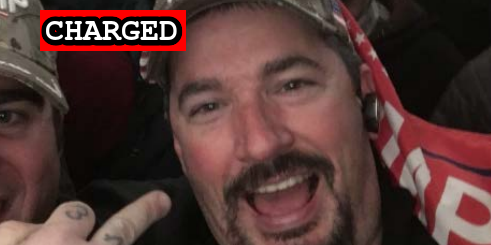
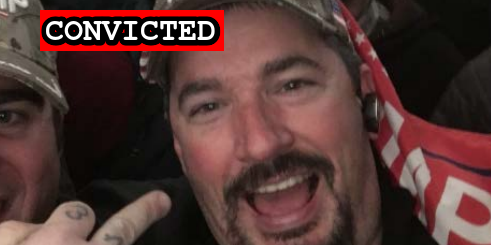
New guilty plea

Changed region(s): [[0.1222, 0.0286, 0.4582, 0.2286]]

diff --git a/docs/_suspects/robert-bauer.md b/docs/_suspects/robert-bauer.md
@@ -3,10 +3,11 @@ name: Robert Bauer
 lastName: Bauer
 aka:
 residence: Kentucky
-status: Charged
+status: Convicted
 date: 2021-01-15
 charged: 2021-01-15
 indicted:
+convicted: 2021-06-28
 age:
 occupation:
 affiliations:
